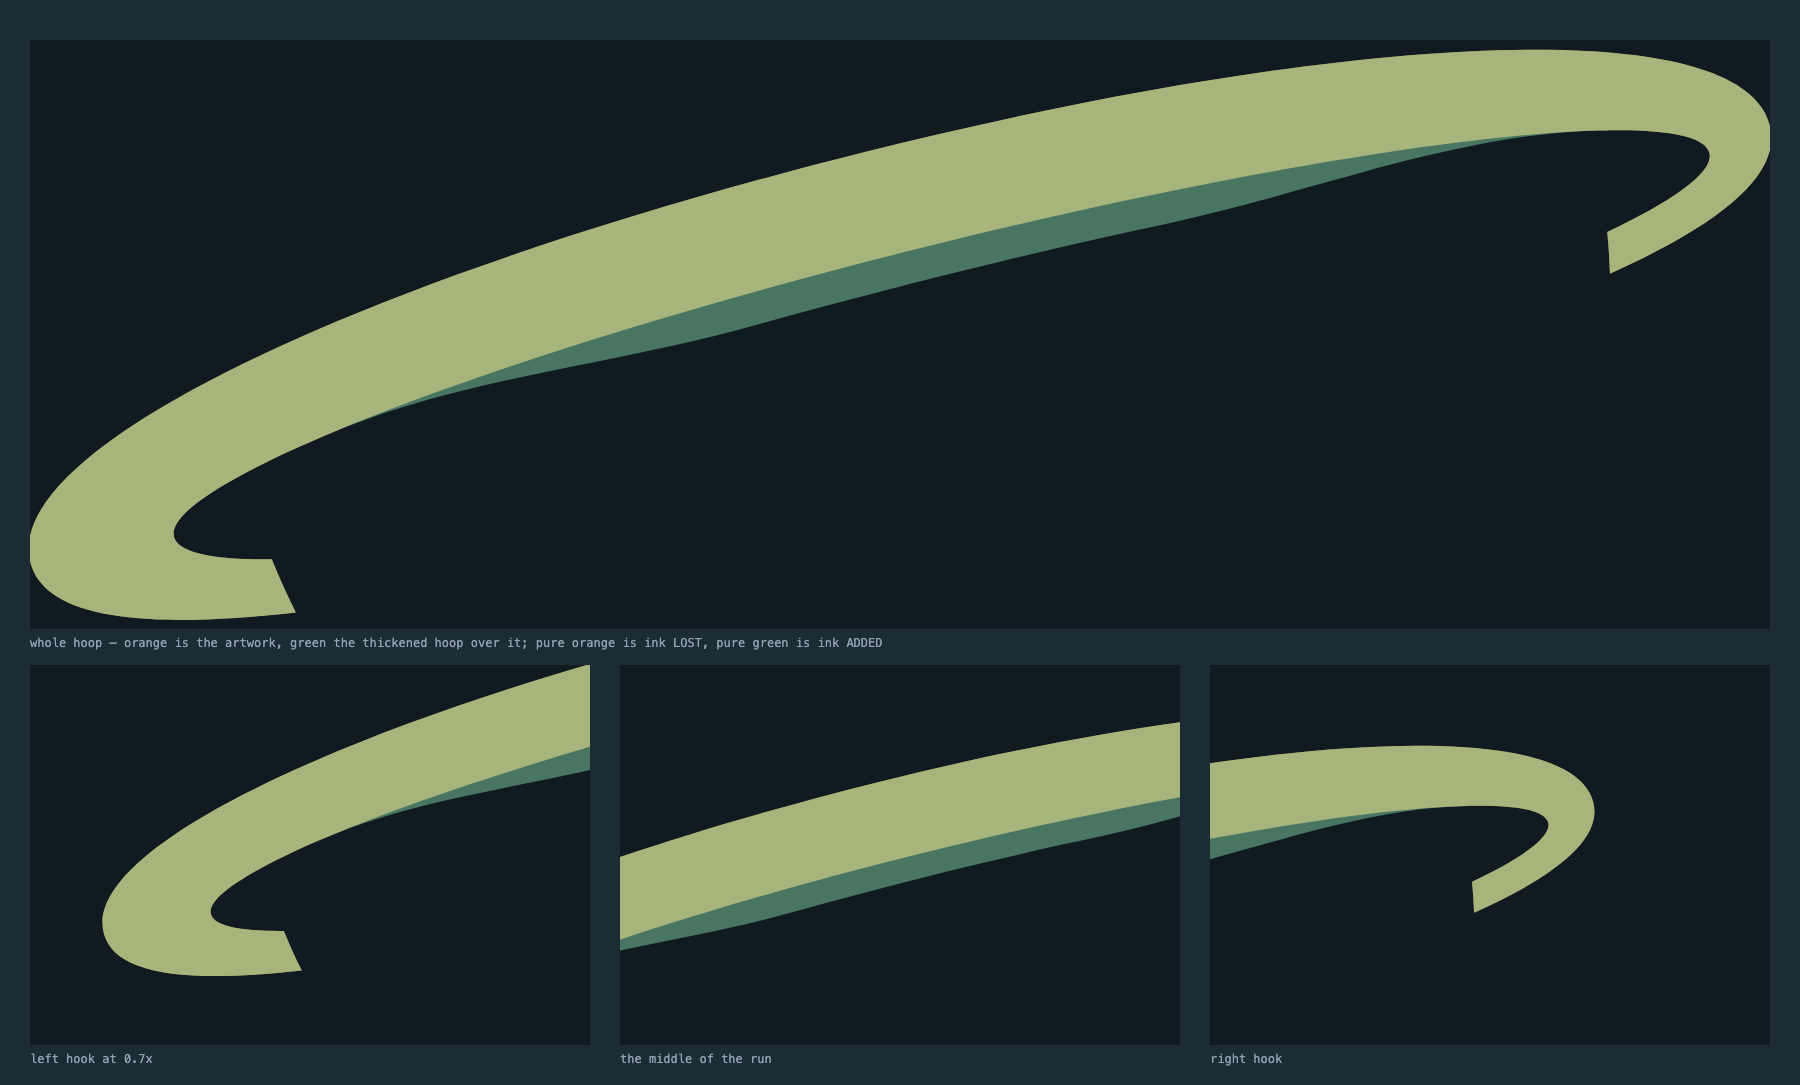
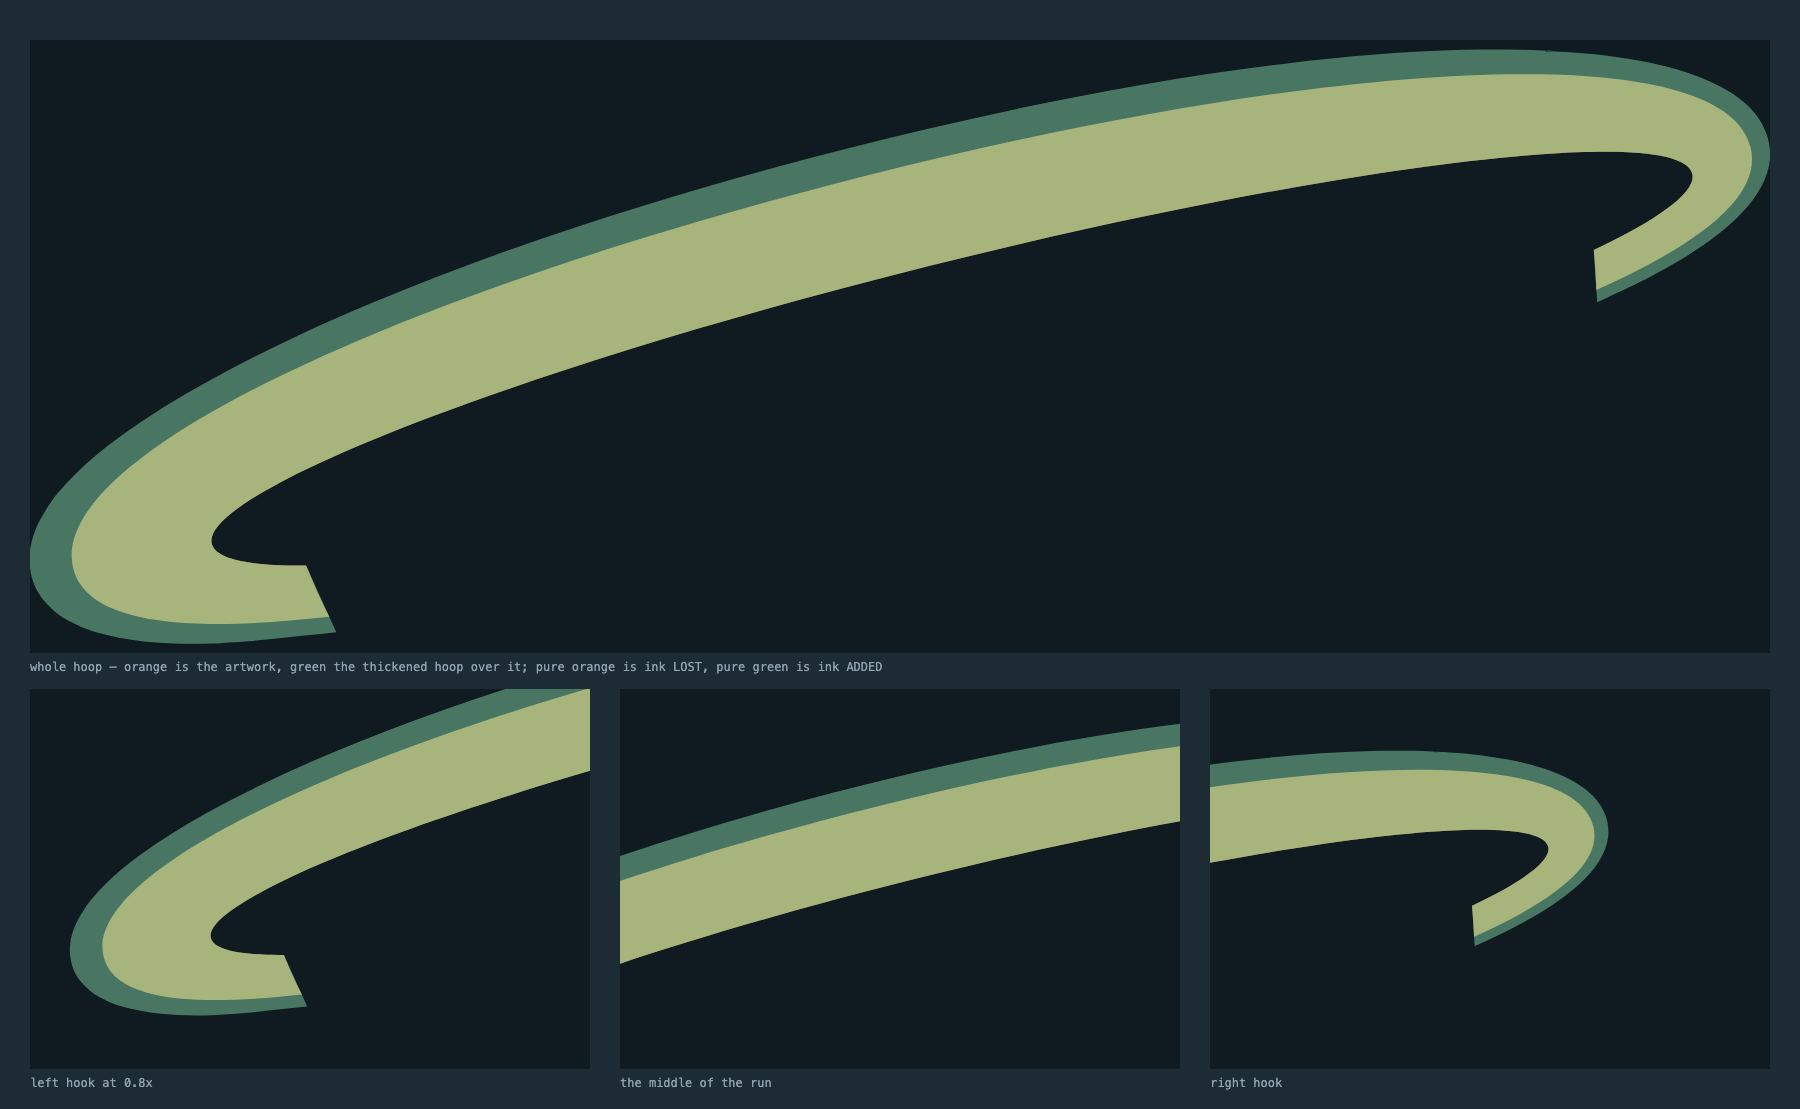
fix(font): thicken the hoop on its OUTER edge, so the weight is even
The bulge was mine, not a rendering artefact, and it was not fixable by smoothing.

Thickening the inner edge and ramping the gain to nothing across each hook kept
the eyes open, but the profile it leaves is 1.85 units of gain in the middle
tapering to zero at both ends.  Measured along the run that ramp is perfectly
smooth -- no step bigger than 0.028 units between samples -- and it still reads
wrong, because a hoop that is 30% heavier in the middle and its drawn weight at
the ends is not a weight change.  It is a lump.

The conflict was real, though.  A hook curls back around an eye about two units
of the mark's 100 across, the eye is bounded by the inner edge on both sides,
and the gain is 1.85 units: any inward thickening walks into it.  Uniform
thickening shut both eyes; ramped thickening bulged.

Moving the OUTER edge instead dissolves it.  The band grows by the same 30.1%
everywhere, uniformly, with no ramp and nothing to blend, because the eyes are
not on that side of the stroke.  Each outer sample is pushed away from its own
region's inner edge -- the main rim against the main inner edge, each hook's
outer curl against its own inner curl -- so the growth is proportional all the
way round rather than constant, which matters on a ring in perspective whose
band runs 2.24 to 8.39 units.

What it costs is the outer silhouette: the rim and both curls stand a little
further out.  That is what a thicker ribbon does, and it is the side of the mark
[…]

diff --git a/font/measure/hoop_derived.py b/font/measure/hoop_derived.py
@@ -7,10 +7,8 @@ core._derived_bar is what the letter uses: a plain piece of the ring's annulus, 
 Dropped into the mark that is wrong twice over -- it stops square where the artwork curls, and it
 runs to a construction range (18 to 152 degrees) that was only ever there to be cut away.
 
-So the hoop is re-derived the way the A's bar is, but on the ARTWORK's own geometry and over the
-artwork's own extent: every OUTER curve is left exactly as drawn -- the main rim and both hooks'
-outer rims and nothing about the silhouette's ends -- and only the INNER curves move, inward, by the
-same factor core._ring_ellipses uses for the bar inside the letter.
+So the hoop is re-derived on the ARTWORK's own geometry and over the artwork's own extent, by the
+same factor R4 gives a bar that runs into a round.
 
     band' = band * k,    k = HORIZ_JOIN / HORIZ_JOIN_at_the_mark
 
@@ -80,76 +78,60 @@ def _flatten(items, per=0.25):
     return out
 
 
-def derived_hoop(nseg=28):
+def derived_hoop(nseg=34):
     """The hoop thickened to the face's band, in the mark's own coordinates.
 
-    Every OUTER curve is the artwork, untouched -- the main rim, both hooks' outer rims, and so the
-    whole silhouette and both curls.  The inner edge is moved AWAY from the outer one by (k-1) times
-    its own local distance to it, which thickens the band by exactly the factor R1b thickens a round,
-    proportionally all the way round rather than by a constant amount: the hoop is a ring in
-    perspective and its band is not the same width at both ends.  The moved samples are refitted to
-    cubics with a fixed piece count, and the two flat faces are redrawn to the ends that moved.
+    The INNER edge is the artwork, untouched, and the OUTER edge moves outward.  That is the wrong
+    way round at first glance -- the letter's bar thickens inward -- and it is the only way that
+    works here, because of the eyes.
+
+    Each hook curls back and encloses an eye about two units of the mark's 100 across.  The eye is
+    bounded on one side by the hook's inner curl and on the other by the main band's inner edge, so
+    ANY inward thickening walks straight into it: the gain is 1.85 units against an eye of 2.  The
+    first attempt shut both eyes.  Ramping the gain to nothing across each hook kept them open but
+    left the hoop 30% heavier in the middle and its drawn weight at the ends -- a bulge, which is
+    not a weight change, it is a lump.
+
+    Moving the outer edge instead thickens the band by the same 30% EVERYWHERE, uniformly, with no
+    ramp and nothing to blend: the eyes are not on that side of the stroke.  What it costs is the
+    outer silhouette, which grows by the gain -- the hoop's rim and both curls stand a little
+    further out.  That is what a thicker ribbon does, and it is the side of the mark with room.
+
+    Each outer sample is pushed away from its own region's inner edge -- the main rim against the
+    main inner edge, each hook's outer curl against its own inner curl -- by (k-1) times the distance
+    to it, so the band grows by the same proportion everywhere rather than by a constant amount.  The
+    hoop is a ring in perspective and its band runs 4.7 to 6.1 units of the mark's 100.
     """
     items = BAR['items']
-    # The MAIN rim only, not the hooks' outer curls.  Pushing each inner sample away from its
-    # nearest point on the whole outer boundary sounds right and is not: on the left the hook's
-    # outer curl wraps back UNDER the band and wins the nearest-point search, so those samples were
-    # pushed toward the rim instead of away from it and the band came out thinner where it should
-    # have been thickest.  The main rim is the edge the band is measured from everywhere it matters,
-    # and at the hooks the gain is ramped to nothing anyway.
-    outer = _flatten([items[j] for j in (1, 2, 3)])
-    inner = _flatten([items[j] for j in INNER_RUN])
+    OUT_RUN = [17, 0, 1, 2, 3, 4, 5, 6]
+    REF = {17: (14, 15), 0: (14, 15),                      # hook R's outer against hook R's inner
+           1: (11, 13), 2: (11, 13), 3: (11, 13),          # the main rim against the main inner edge
+           4: (8, 10), 5: (8, 10), 6: (8, 10)}             # hook L's outer against hook L's inner
+    ref_pts = {}
+    for lo, hi in set(REF.values()):
+        ref_pts[(lo, hi)] = _flatten([items[j] for j in range(lo, hi + 1)])
 
-    # Where each hook's inner curl hands over to the main rim, measured along the inner run.
-    #
-    # The gain is held at ZERO for the whole of both curls and ramped up on the MAIN RUN, over the
-    # third of it nearest each hand-over.  Two reasons, and the first one is not the obvious one.
-    #
-    # A hook encloses an eye about two units of the mark's 100 wide against a band of five, so 30%
-    # of the band shuts it, and the eye is the whole reason a hook reads as a curl rather than a
-    # blob.  That is why the hooks keep the band they were drawn with.
-    #
-    # But the ramp has to be flat across the whole curl, not merely zero at the tip.  The push is
-    # "away from the main rim by (k-1) times the distance to it", and at a hook that distance is not
-    # the band -- it is 14.6 units where the band is 5 -- so even a tenth of the gain there moves the
-    # edge half a unit in a direction that has nothing to do with the local stroke.  Ramping through
-    # the curl cost a sliver of the artwork at both tips: ink LOST, which is what showed as a corner
-    # jutting out of the curl.
-    L_END = sum(_seglen(items[j]) for j in range(8, 11))        # end of hook L's inner curl
-    R_START = sum(_seglen(items[j]) for j in range(8, 14))      # start of hook R's inner curl
-    TOTAL = sum(_seglen(items[j]) for j in INNER_RUN)
-    BLEND = (R_START - L_END) / 3.0
-
-    def ramp(s):
-        t = min((s - L_END) / BLEND, (R_START - s) / BLEND, 1.0)
-        if t <= 0: return 0.0
-        return t * t * (3 - 2 * t)                              # smoothstep: no corner at either end
-
-    def push(p, w):
-        q = min(outer, key=lambda o: (o[0]-p[0])**2 + (o[1]-p[1])**2)
-        d = math.hypot(p[0]-q[0], p[1]-q[1])
-        if d < 1e-9 or w <= 0.0: return p, d
-        g = w * (K - 1)
-        return (p[0] + (p[0]-q[0])/d * g * d, p[1] + (p[1]-q[1])/d * g * d), d
-
-    moved, bands, s = [], [], 0.0
-    for i, p in enumerate(inner):
-        if i: s += math.dist(inner[i-1], p)
-        m, d = push(p, ramp(s)); moved.append(m)
-        if L_END <= s <= R_START: bands.append(d)
+    moved, bands = [], []
+    for j in OUT_RUN:
+        pts = _flatten([items[j]])
+        R = ref_pts[REF[j]]
+        for p in pts:
+            q = min(R, key=lambda o: (o[0]-p[0])**2 + (o[1]-p[1])**2)
+            d = math.hypot(p[0]-q[0], p[1]-q[1])
+            bands.append(d)
+            moved.append(p if d < 1e-9 else
+                         (p[0] + (p[0]-q[0])/d * (K-1) * d, p[1] + (p[1]-q[1])/d * (K-1) * d))
 
     tg = [unit(sub(moved[min(i+1, len(moved)-1)], moved[max(i-1, 0)])) for i in range(len(moved))]
     segs, err = fit_cubics(moved, tg, nseg=nseg)
 
-    k = Contour(tuple(items[17][1]))
-    for j in (17, 0, 1, 2, 3, 4, 5, 6):
+    k = Contour(moved[0])
+    for sg in segs: k.curve_to(*sg)
+    k.line_to(tuple(items[8][1]))                          # hook L's face, to the inner edge as drawn
+    for j in INNER_RUN:
         it = items[j]
         k.curve_to(tuple(it[2]), tuple(it[3]), tuple(it[4])) if it[0] == 'c' else k.line_to(tuple(it[2]))
-    f = items[7]                                         # hook L's face, exactly as drawn: the gain
-    k.curve_to(tuple(f[2]), tuple(f[3]), tuple(f[4]))    # is zero at the ends so nothing has moved
-    for sg in segs: k.curve_to(*sg)
-    f = items[16]                                        # hook R's face, likewise
-    k.curve_to(tuple(f[2]), tuple(f[3]), tuple(f[4]))
+    k.line_to(moved[0])                                    # hook R's face, likewise
     return k.ccw(), dict(k=K, fit_err=err, band_min=min(bands), band_max=max(bands), nseg=nseg)
 
 
